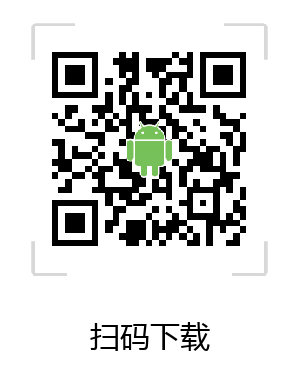
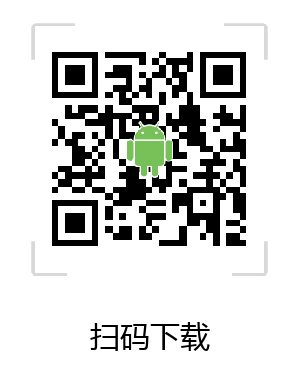
modified: app

Changed region(s): [[0.15, 0.1231, 0.84, 0.6462], [0.78, 0.6154, 0.84, 0.6462], [0.6, 0.1846, 0.66, 0.2154]]

diff --git a/application/app4www/user/controllers/QrcodeController.php b/application/app4www/user/controllers/QrcodeController.php
@@ -31,14 +31,38 @@ class QrcodeController extends Kyapi_Controller_Action {
     }
 
     public function appTestAction() {
+        include SEED_LIB_ROOT . "/Plugin/Phpqrcode.php";
+
         // dev
         $appURL = "http://" . $_SERVER['HTTP_HOST'] . '/qrcode/android';
 
         $level = "M";
         $size = 8;
-        include SEED_LIB_ROOT . "/Plugin/Phpqrcode.php";
-        QRcode::png($appURL, false, $level, $size, 2);
-        exit;
+
+        $filename = '/app/qrcode/'.microtime().'.png';
+        QRcode::png($appURL, $filename, $level, $size, 2);
+
+        // $logo = 'app/android.jpg';
+        $QR = $filename;
+        //
+        // $QR = imagecreatefromstring(file_get_contents($QR));   		//目标图象连接资源。
+        // $logo = imagecreatefromstring(file_get_contents($logo));   	//源图象连接资源。
+        // $QR_width = imagesx($QR);			//二维码图片宽度
+        // $QR_height = imagesy($QR);			//二维码图片高度
+        // $logo_width = imagesx($logo);		//logo图片宽度
+        // $logo_height = imagesy($logo);		//logo图片高度
+        // $logo_qr_width = $QR_width / 4;   	//组合之后logo的宽度(占二维码的1/5)
+        // $scale = $logo_width/$logo_qr_width;   	//logo的宽度缩放比(本身宽度/组合后的宽度)
+        // $logo_qr_height = $logo_height/$scale;  //组合之后logo的高度
+        // $from_width = ($QR_width - $logo_qr_width) / 2;   //组合之后logo左上角所在坐标点
+        // imagecopyresampled($QR, $logo, $from_width, $from_width, 0, 0, $logo_qr_width,$logo_qr_height, $logo_width, $logo_height);
+
+        //输出图片
+        imagepng($QR, '/app/qrcode.png');
+        imagedestroy($QR);
+        // imagedestroy($logo);
+        return '<img src="/app/qrcode.png" alt="使用微信扫描支付">';
+        // exit;
     }
 
     public function androidAction() {
